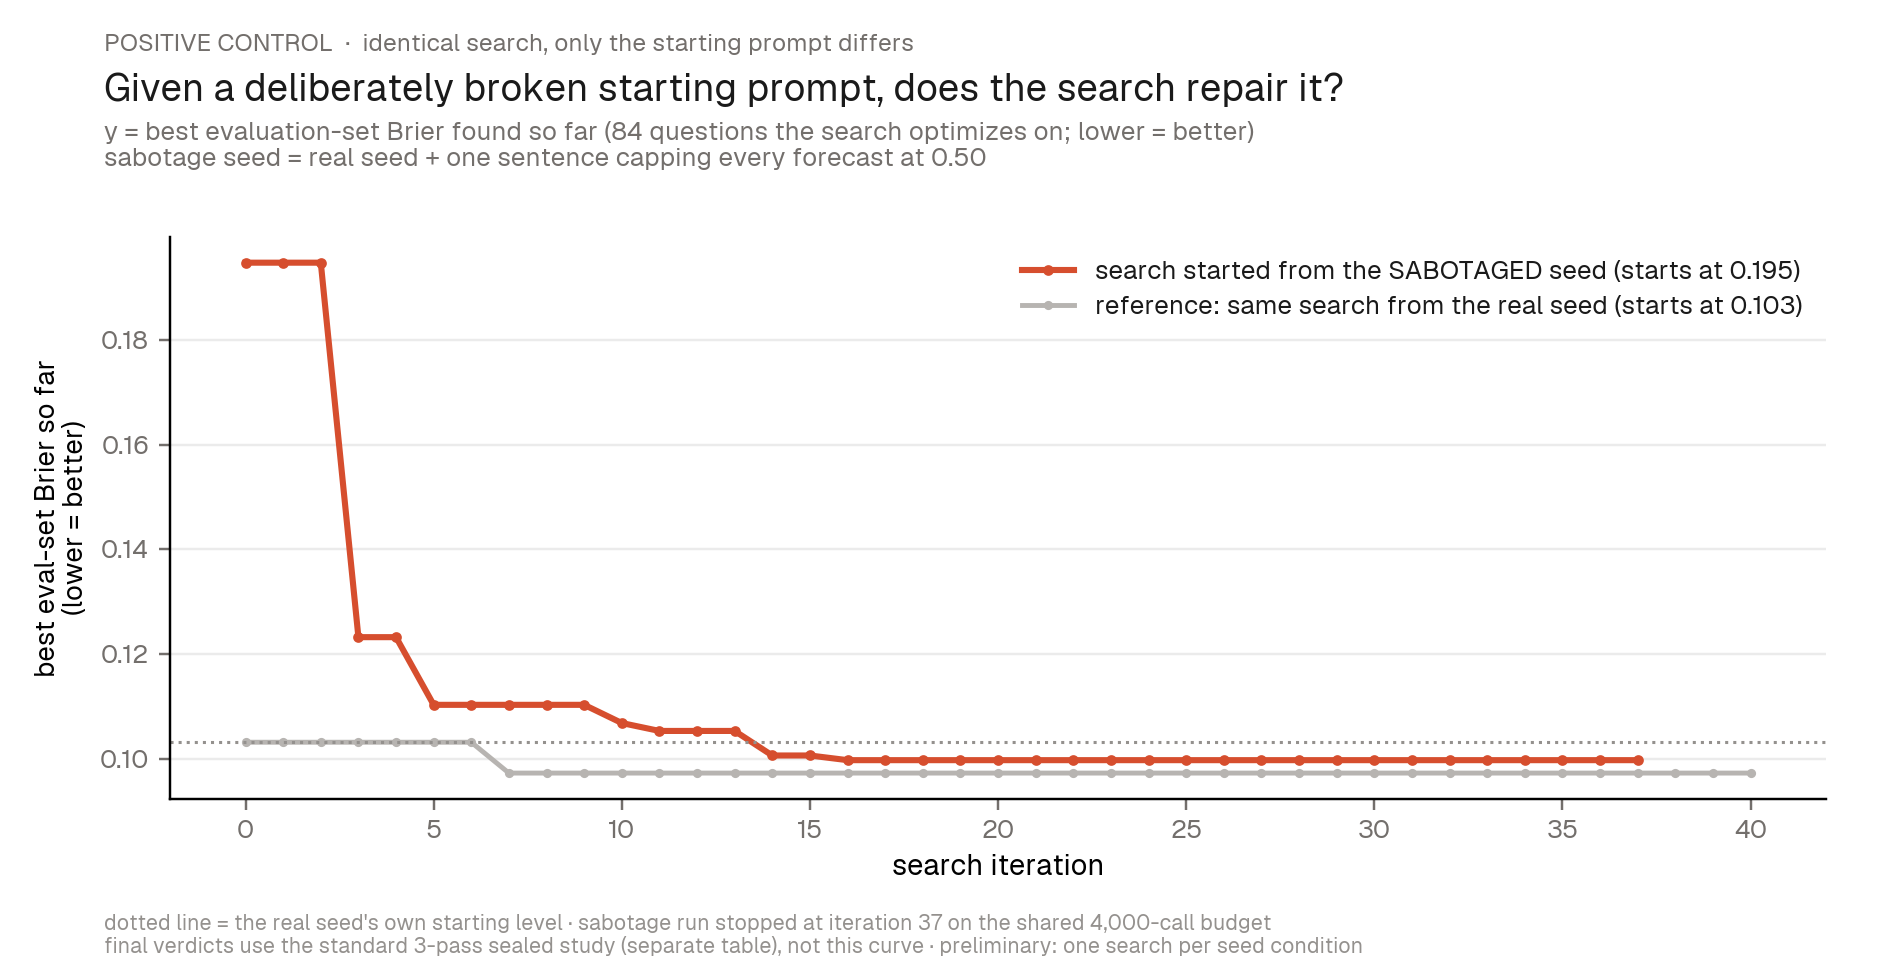
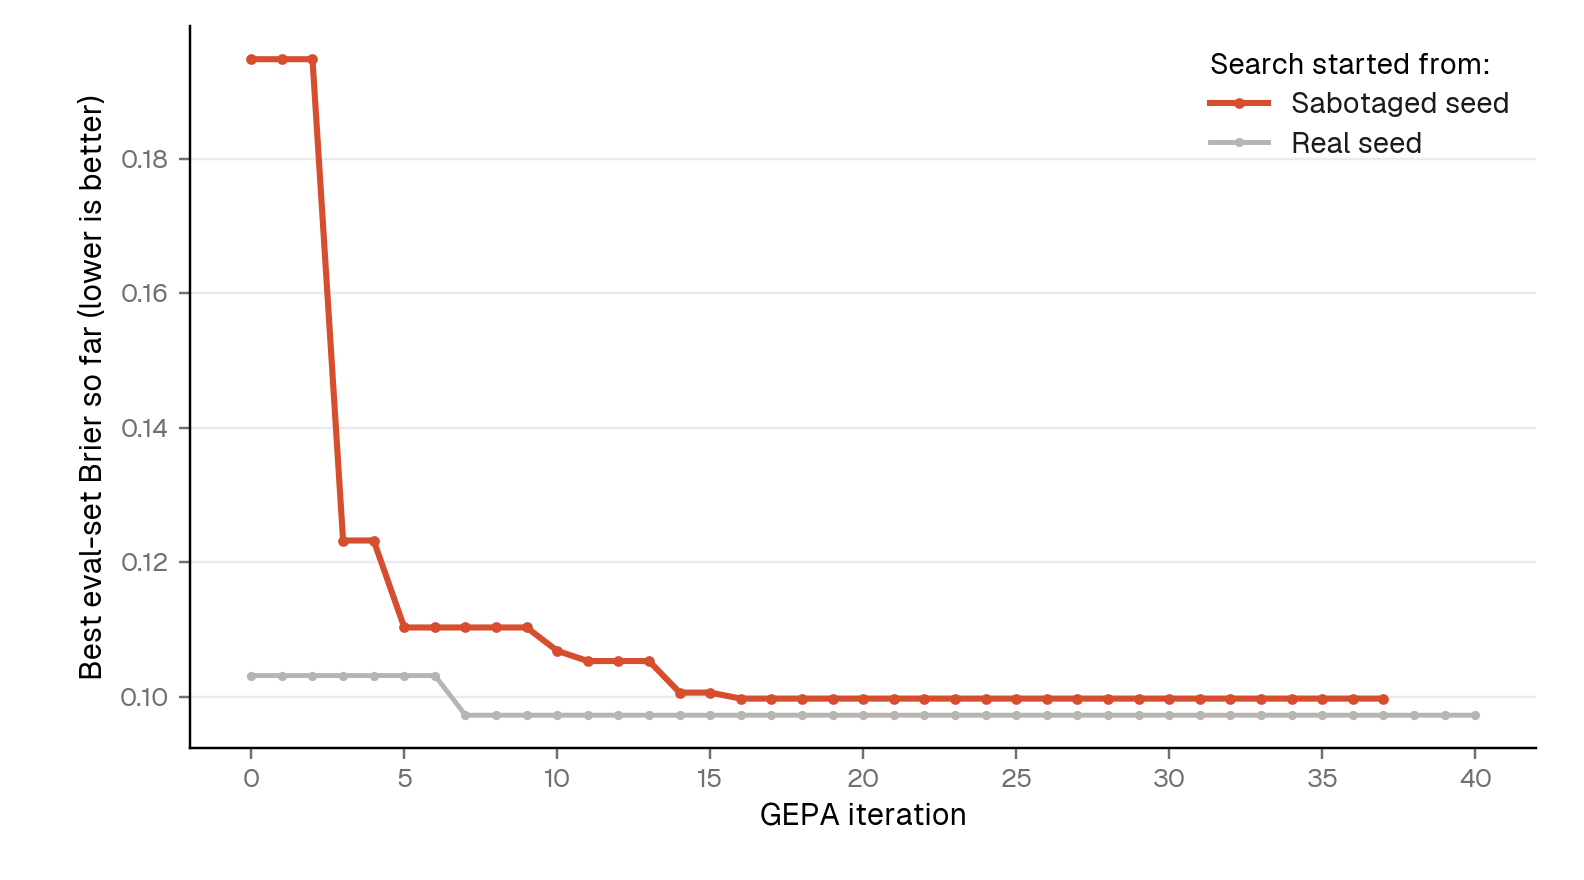
figs 20-21: strip to standard conference form (axis labels + terse legend only, all explanatory text removed)

Changed region(s): [[0.0, 0.0307, 0.959, 1.0], [0.5259, 0.2455, 0.959, 0.3375], [0.7424, 0.0614, 0.959, 0.1841]]

diff --git a/intra_benchmark_calibration/experiments/III_gepa_optimization/summary/make_fig20.py b/intra_benchmark_calibration/experiments/III_gepa_optimization/summary/make_fig20.py
@@ -1,14 +1,7 @@
 #!/usr/bin/env python3
-"""fig20: one LLM, two questions — elicit the probability vs elicit the
-task's human time (converted to probability by a 12-parameter curve fit on
-the training benchmarks). Same cells, paired arms, house style.
-
-Bars: seed probability prompt; best-transfer GEPA-optimized probability
-prompt (cand 18); time-elicitation pipeline (arm T, pre-registered).
-Dashed gold lines = within-set leave-one-out ground-truth lookup tables.
-Sources: gepa runs/noise_study cell logs + the frozen head-to-head scorer
-output (audit workspace, two independent derivations).
-"""
+"""fig20: Brier by elicitation method on the sealed set and the reserved
+test. Standard grouped bars; details live in the team message, not the
+figure."""
 import json
 import os
 import statistics
@@ -19,7 +12,7 @@ import matplotlib
 matplotlib.use("Agg")
 import matplotlib.pyplot as plt
 
-INK = "#1a1a1a"; MUTED = "#736f6c"; SOFT = "#94918e"; HAIR = "#ebebeb"
+INK = "#1a1a1a"; MUTED = "#736f6c"; HAIR = "#ebebeb"
 GREEN = "#034f46"; VERM = "#d64e2e"; GOLD = "#b8860b"; GRAY = "#b7b4b1"
 plt.rcParams.update({"font.family": "Geist", "figure.facecolor": "white",
                      "savefig.facecolor": "white"})
@@ -39,54 +32,35 @@ def cells(fname, prompt, setname):
     return [statistics.mean(v) for v in per_rep.values()]
 
 
-seed_sealed = 0.1305   # pooled 17 passes (audit-verified); printed as 0.131
-seed_test = 0.1633
-c18_sealed = statistics.mean(cells("noise_cells_pareto_modelbin.jsonl", "modelbin_cand18", "sealed"))
-c18_test = statistics.mean(cells("noise_cells_test_ext_modelbin.jsonl", "modelbin_cand18", "test"))
-t_sealed = HH["T_sealed"]["brier"]
-t_test = HH["T_test"]["brier"]
-TABLES = {"sealed": 0.1179, "test": 0.1488}
+vals = {
+    "Seed prompt (probability)": (GRAY, 0.1305, 0.1633),
+    "GEPA cand 18 (probability)": (VERM,
+        statistics.mean(cells("noise_cells_pareto_modelbin.jsonl", "modelbin_cand18", "sealed")),
+        statistics.mean(cells("noise_cells_test_ext_modelbin.jsonl", "modelbin_cand18", "test"))),
+    "Time elicitation + fitted curve": (GREEN, HH["T_sealed"]["brier"], HH["T_test"]["brier"]),
+}
+TABLES = [0.1179, 0.1488]
+SETS = ["Sealed set\n(230 cells)", "Reserved test\n(1,033 cells)"]
 
-ARMS = [("seed prompt\n(asks for the probability)", GRAY, {"sealed": seed_sealed, "test": seed_test}),
-        ("cand 18 — the GEPA prompt that transfers\nbest (asks for the probability)", VERM, {"sealed": c18_sealed, "test": c18_test}),
-        ("same LLM asked for the task's\nhuman time + fitted curve", GREEN, {"sealed": t_sealed, "test": t_test})]
-SETS = [("sealed", "sealed set — held-out questions,\ntraining benchmarks (230 cells)"),
-        ("test", "reserved test — new benchmarks\nCVEBench + CyberGym (1,033 cells)")]
-
-fig, ax = plt.subplots(figsize=(8.6, 4.6), dpi=220)
-fig.subplots_adjust(top=0.745, bottom=0.155, left=0.09, right=0.965)
-fig.text(0.055, 0.965, "ONE LLM, TWO QUESTIONS  ·  identical cells, temperature 0  ·  "
-         "reserved-test comparison pre-registered", fontsize=8, color=MUTED, ha="left", va="top")
-fig.text(0.055, 0.925, "Asking for the probability wins at home; asking for the task's "
-         "human time transfers", fontsize=12.5, color=INK, ha="left", va="top", fontweight="bold")
-fig.text(0.055, 0.862, "a cell = will one AI model solve one benchmark task? (Brier; lower = better)\n"
-         "time answers become probabilities via a 12-parameter curve fit on the training benchmarks",
-         fontsize=8.5, color=MUTED, ha="left", va="top")
+fig, ax = plt.subplots(figsize=(7.2, 4.2), dpi=220)
+fig.subplots_adjust(top=0.97, bottom=0.12, left=0.11, right=0.97)
 
 W = 0.25
-for si, (skey, slabel) in enumerate(SETS):
-    for ai, (label, color, vals) in enumerate(ARMS):
-        x = si + (ai - 1) * W
-        ax.bar(x, vals[skey], width=W - 0.03, color=color,
+for ai, (label, (color, sealed, test)) in enumerate(vals.items()):
+    for si, v in enumerate([sealed, test]):
+        ax.bar(si + (ai - 1) * W, v, width=W - 0.03, color=color,
                label=label if si == 0 else None)
-        ax.text(x, vals[skey] + 0.002, f"{vals[skey]:.3f}", ha="center",
+        ax.text(si + (ai - 1) * W, v + 0.002, f"{v:.3f}", ha="center",
                 fontsize=8.5, color=INK)
-    ax.hlines(TABLES[skey], si - 1.5 * W, si + 1.5 * W, ls="--", lw=1.2, color=GOLD)
+for si, t in enumerate(TABLES):
+    ax.hlines(t, si - 1.5 * W, si + 1.5 * W, ls="--", lw=1.2, color=GOLD,
+              label="Bin-rate lookup table (in-set)" if si == 0 else None)
 ax.legend(loc="upper left", frameon=False, fontsize=8.5, labelcolor=INK)
-ax.set_xticks(range(len(SETS)), [s for _k, s in SETS], fontsize=9, color=INK)
+ax.set_xticks(range(2), SETS, fontsize=9.5, color=INK)
 ax.set_ylim(0.09, 0.20)
-ax.set_ylabel("Brier score (lower = better)", fontsize=9.5)
+ax.set_ylabel("Brier score (lower is better)", fontsize=10)
 ax.spines["top"].set_visible(False); ax.spines["right"].set_visible(False)
 ax.grid(axis="y", color=HAIR, lw=0.8); ax.set_axisbelow(True)
 ax.tick_params(colors=MUTED, labelsize=8.5); ax.tick_params(axis="x", length=0)
-fig.text(0.055, 0.012,
-         "gold dashed = (model × difficulty-bin) solve-rate lookup fit on the set's own labels — "
-         "perfect rates, no per-task reading, so per-task signal can beat it\n"
-         "time arm, reserved test: paired vs seed −0.012, task-clustered t = −2.4 · sealed: time arm "
-         "0.1515 vs seed 0.1305 (n.s. at 21 tasks)\n"
-         "curve = logistic in log(median estimated minutes); 12 params = 11 per-model abilities + 1 "
-         "shared slope · preliminary: two held-out benchmark families, one dataset",
-         fontsize=7, color=SOFT, ha="left", va="bottom")
 fig.savefig("fig20_ask_swap.png")
-print(f"fig20 written · sealed: seed {seed_sealed:.4f} c18 {c18_sealed:.4f} T {t_sealed:.4f} · "
-      f"test: seed {seed_test:.4f} c18 {c18_test:.4f} T {t_test:.4f}")
+print("fig20 written")

diff --git a/intra_benchmark_calibration/experiments/III_gepa_optimization/summary/make_fig21.py b/intra_benchmark_calibration/experiments/III_gepa_optimization/summary/make_fig21.py
@@ -1,11 +1,6 @@
 #!/usr/bin/env python3
-"""fig21: the sabotage positive control — best val Brier so far vs search
-iteration, sabotage-seed run vs the good-seed reference run (identical
-search settings; only the starting prompt differs).
-
-Sources: diagnostics.jsonl of runs/pilot_sabotage_seed and
-runs/pilot_baseline_clean (per-iteration best_val_brier_so_far).
-"""
+"""fig21: best eval-set Brier vs iteration, sabotage-seed run vs real-seed
+run. Standard line chart; details live in the team message."""
 import json
 import os
 from pathlib import Path
@@ -14,8 +9,8 @@ import matplotlib
 matplotlib.use("Agg")
 import matplotlib.pyplot as plt
 
-INK = "#1a1a1a"; MUTED = "#736f6c"; SOFT = "#94918e"; HAIR = "#ebebeb"
-GREEN = "#034f46"; VERM = "#d64e2e"; GOLD = "#b8860b"; GRAY = "#b7b4b1"
+INK = "#1a1a1a"; MUTED = "#736f6c"; HAIR = "#ebebeb"
+VERM = "#d64e2e"; GRAY = "#b7b4b1"
 plt.rcParams.update({"font.family": "Geist", "figure.facecolor": "white",
                      "savefig.facecolor": "white"})
 
@@ -24,7 +19,6 @@ GEPA = Path(os.environ.get("GEPA_DIR", Path(__file__).resolve().parents[4].paren
 
 def trajectory(run_dir):
     xs, ys = [0], [None]
-    start = None
     for l in open(GEPA / run_dir / "diagnostics.jsonl"):
         r = json.loads(l)
         if r.get("kind") == "iteration":
@@ -33,41 +27,24 @@ def trajectory(run_dir):
     for l in open(GEPA / run_dir / "candidates.jsonl"):
         r = json.loads(l)
         if r.get("kind") == "valset_evaluation" and r.get("candidate_idx") == 0:
-            start = r["val_mean_brier"]
+            ys[0] = r["val_mean_brier"]
             break
-    ys[0] = start
-    return xs, ys, start
+    return xs, ys
 
 
-xs_s, ys_s, start_s = trajectory("runs/pilot_sabotage_seed")
-xs_c, ys_c, start_c = trajectory("runs/pilot_baseline_clean")
+xs_s, ys_s = trajectory("runs/pilot_sabotage_seed")
+xs_c, ys_c = trajectory("runs/pilot_baseline_clean")
 
-fig, ax = plt.subplots(figsize=(8.6, 4.4), dpi=220)
-fig.subplots_adjust(top=0.755, bottom=0.175, left=0.09, right=0.965)
-fig.text(0.055, 0.965, "POSITIVE CONTROL  ·  identical search, only the starting prompt differs",
-         fontsize=8, color=MUTED, ha="left", va="top")
-fig.text(0.055, 0.925, "Given a deliberately broken starting prompt, does the search repair it?",
-         fontsize=12.5, color=INK, ha="left", va="top", fontweight="bold")
-fig.text(0.055, 0.875, "y = best evaluation-set Brier found so far (84 questions the search "
-         "optimizes on; lower = better)\nsabotage seed = real seed + one sentence capping every "
-         "forecast at 0.50", fontsize=8.5, color=MUTED, ha="left", va="top")
-
-ax.plot(xs_s, ys_s, color=VERM, lw=2.0, marker="o", ms=2.5,
-        label=f"search started from the SABOTAGED seed (starts at {start_s:.3f})")
-ax.plot(xs_c, ys_c, color=GRAY, lw=1.6, marker="o", ms=2.0,
-        label=f"reference: same search from the real seed (starts at {start_c:.3f})")
-ax.axhline(start_c, ls=":", lw=1.0, color=SOFT)
-ax.legend(loc="upper right", frameon=False, fontsize=8.5, labelcolor=INK)
-ax.set_xlabel("search iteration", fontsize=9.5)
-ax.set_ylabel("best eval-set Brier so far\n(lower = better)", fontsize=9)
+fig, ax = plt.subplots(figsize=(7.2, 4.0), dpi=220)
+fig.subplots_adjust(top=0.97, bottom=0.15, left=0.12, right=0.97)
+ax.plot(xs_s, ys_s, color=VERM, lw=2.0, marker="o", ms=2.5, label="Sabotaged seed")
+ax.plot(xs_c, ys_c, color=GRAY, lw=1.6, marker="o", ms=2.0, label="Real seed")
+ax.legend(loc="upper right", frameon=False, fontsize=9.5, labelcolor=INK,
+          title="Search started from:", title_fontsize=9.5, alignment="left")
+ax.set_xlabel("GEPA iteration", fontsize=10)
+ax.set_ylabel("Best eval-set Brier so far (lower is better)", fontsize=10)
 ax.spines["top"].set_visible(False); ax.spines["right"].set_visible(False)
 ax.grid(axis="y", color=HAIR, lw=0.8); ax.set_axisbelow(True)
 ax.tick_params(colors=MUTED, labelsize=8.5)
-fig.text(0.055, 0.012,
-         "dotted line = the real seed's own starting level · sabotage run stopped at iteration 37 "
-         "on the shared 4,000-call budget\nfinal verdicts use the standard 3-pass sealed study "
-         "(separate table), not this curve · preliminary: one search per seed condition",
-         fontsize=7, color=SOFT, ha="left", va="bottom")
 fig.savefig("fig21_sabotage_recovery.png")
-print(f"fig21 written · sabotage start {start_s:.4f} end {ys_s[-1]:.4f} · "
-      f"clean start {start_c:.4f} end {ys_c[-1]:.4f}")
+print("fig21 written")
